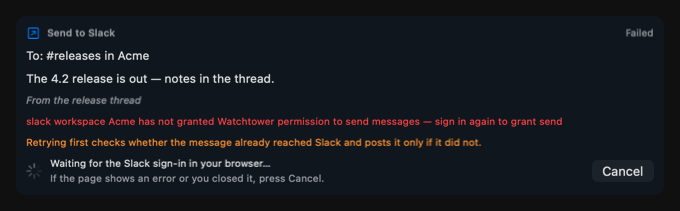
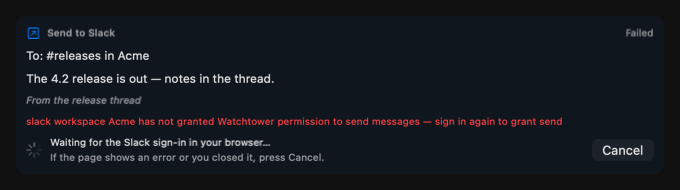
fix(desktop): T8 review follow-ups (#2132 Task 8)
- Chat card: the orange retry note hides with Retry while the card's
  sign-in waits (AgentActionCard.showsRetryNote); test extended.
- Remove/Discard red on Linear, Email and the iPhone settings rows
  (KitQuietButtonStyle(label: Tone.error) in place of a foregroundStyle
  under .kitQuiet, which rendered blue).
- Guide: a waiting row shows only Cancel; sections and cards grey out
  their other buttons.
- implemented/README: chat card, controls outside #2132 that stay
  enabled, the Confluence shot's fixture line; Slack row doc comments.

diff --git a/WatchtowerChat/Sources/ChatUI/Parts/Approval/AgentActionCard.swift b/WatchtowerChat/Sources/ChatUI/Parts/Approval/AgentActionCard.swift
@@ -129,7 +129,12 @@ public struct AgentActionCard: View {
     }
 
     /// Whether the screen's Reconnect Slack sign-in for this card's account waits in the browser: the card then shows
-    /// the waiting line and hides its decision row (Retry) until the wait ends.
+    /// the waiting line and hides its decision row (Retry) and the retry note until the wait ends.
+    /// The retry note under a failed external card; hidden with Retry while the card's sign-in waits.
+    static func showsRetryNote(_ action: ChatAgentAction, signInWaits: Bool) -> Bool {
+        action.status == "failed" && action.external && !action.isSessionApplied && !signInWaits
+    }
+
     static func signInWaits(_ action: ChatAgentAction, services: ChatApprovalServices) -> Bool {
         guard let accountID = reconnectAccount(action, services: services) else { return false }
         return reconnectWaitLine(accountID: accountID, services: services) != nil
@@ -188,6 +193,7 @@ public struct AgentActionCard: View {
         // One args decode per render for a connector card.
         let connector = ConnectorCallProposal(action: action)
         let details = services.details?(action)
+        let signInWaits = Self.signInWaits(action, services: services)
         style.approvalCard(AnyView(VStack(alignment: .leading, spacing: Spacing.regular) {
             if let contextLabel {
                 contextLine(contextLabel)
@@ -224,7 +230,7 @@ public struct AgentActionCard: View {
             // Only a FAILED row can have left a half-finished external write: Apply claims the row before it runs the
             // tool, so an `approved` one provably never reached Jira. (A Confluence edit is version-checked, so its
             // note says why a retry cannot double-write.)
-            if action.status == "failed", action.external, !action.isSessionApplied {
+            if Self.showsRetryNote(action, signInWaits: signInWaits) {
                 style.approvalRetryNote(
                     action.tool == SlackSendProposal.tool ? Self.slackRetryNote : ConfluenceEdit.retryNote(for: action)
                 )
@@ -240,7 +246,7 @@ public struct AgentActionCard: View {
             }
             // While the card's Reconnect Slack waits in the browser, its waiting line is the one action: no Retry
             // under it until the wait ends (the chat-card-waiting mockup).
-            if !Self.signInWaits(action, services: services) {
+            if !signInWaits {
                 decision(connector: connector)
             }
         }), outlined: outlined)

diff --git a/WatchtowerDesktop/Sources/Views/Settings/MobileSettingsView.swift b/WatchtowerDesktop/Sources/Views/Settings/MobileSettingsView.swift
@@ -389,8 +389,7 @@ private struct MobilePhoneRow: View {
         Chip(text: row.transportLabel, color: MobileTransportTone.color(row.transport))
         if hovered || model.pendingRemove?.id == row.id {
             Button(Copy.removeTitle) { model.requestRemove(row) }
-                .buttonStyle(.kitQuiet)
-                .foregroundStyle(Tone.error)
+                .buttonStyle(KitQuietButtonStyle(label: Tone.error))
                 .disabled(busy)
         }
     }
@@ -462,8 +461,7 @@ private struct MobileRecordingsSection: View {
                 Button(Copy.retryTitle) { Task { await model.retryRecording(recording.id) } }.buttonStyle(.kitSecondary)
             }
             Button(Copy.discardTitle) { model.requestDiscard(recording) }
-                .buttonStyle(.kitQuiet)
-                .foregroundStyle(Tone.error)
+                .buttonStyle(KitQuietButtonStyle(label: Tone.error))
         }
         .disabled(busy)
     }

diff --git a/WatchtowerDesktop/Sources/Views/Settings/SlackConnectionDetail.swift b/WatchtowerDesktop/Sources/Views/Settings/SlackConnectionDetail.swift
@@ -386,11 +386,12 @@ struct SlackConnectionDetail: View {
     }
 
     /// One workspace: its title and the §4.3 status of a company's account,
-    /// the switch, Re-login (or the status's own action), Rename, Remove.
+    /// the switch, Re-login (or the status's own action), Rename, Remove;
+    /// while its sign-in waits, Cancel in place of the row's controls.
     private func workspaceRow(_ vm: SlackAccountsViewModel, account: SlackAccount, ref: AccountRef) -> some View {
         let status = appState.companyRowStatus(ref)
-        // This row's browser sign-in waits: Cancel in place of Re-login, the
-        // waiting line under the title.
+        // This row's browser sign-in waits: Cancel in place of the row's
+        // controls, the waiting line under the title.
         let signInWait = vm.signInWait(forAccount: account.id)
         return HStack {
             VStack(alignment: .leading, spacing: Spacing.tight) {

diff --git a/WatchtowerChat/Tests/ChatUITests/AgentActionCardModelTests.swift b/WatchtowerChat/Tests/ChatUITests/AgentActionCardModelTests.swift
@@ -243,7 +243,10 @@ final class AgentActionCardModelTests: XCTestCase {
         var running: Set<Int64> = [3]
         services.reconnectSlackWaiting = { id in running.contains(id) ? AnyView(Text("waiting")) : nil }
         XCTAssertTrue(AgentActionCard.signInWaits(scope, services: services))
+        let waits = AgentActionCard.signInWaits(scope, services: services)
+        XCTAssertFalse(AgentActionCard.showsRetryNote(scope, signInWaits: waits), "the retry note goes with Retry")
         running = []
+        XCTAssertTrue(AgentActionCard.showsRetryNote(scope, signInWaits: AgentActionCard.signInWaits(scope, services: services)))
         XCTAssertFalse(AgentActionCard.signInWaits(scope, services: services), "ended: Retry again")
         running = [3]
         XCTAssertFalse(AgentActionCard.signInWaits(action(), services: services), "a card with no Slack account to reconnect")

diff --git a/WatchtowerDesktop/Sources/Views/Settings/LinearConnectionDetail.swift b/WatchtowerDesktop/Sources/Views/Settings/LinearConnectionDetail.swift
@@ -144,8 +144,7 @@ struct LinearConnectionDetail: View {
                     .disabled(vm.isBusy || reloginBlocked(account.id) != nil)
             }
             Button("Remove") { pendingRemoval = account }
-                .buttonStyle(.kitQuiet)
-                .foregroundStyle(Tone.error)
+                .buttonStyle(KitQuietButtonStyle(label: Tone.error))
                 .disabled(vm.isBusy)
         }
     }

diff --git a/WatchtowerDesktop/Sources/Views/Settings/EmailConnectionDetail.swift b/WatchtowerDesktop/Sources/Views/Settings/EmailConnectionDetail.swift
@@ -134,8 +134,7 @@ struct EmailConnectionDetail: View {
             Button("Remove") {
                 accountPendingRemoval = account
             }
-            .buttonStyle(.kitQuiet)
-            .foregroundStyle(Tone.error)
+            .buttonStyle(KitQuietButtonStyle(label: Tone.error))
         }
     }
 

diff --git a/docs/design/mockups/sign-in-cancel/implemented/README.md b/docs/design/mockups/sign-in-cancel/implemented/README.md
@@ -18,7 +18,7 @@ The Google places G1–G4 (account row, Connect Google Calendar, the Calendar ba
 
 ## What matches
 
-Every place shows the spinner, the line and the hint from `SignInWaitCopy`, and a visible **Cancel**. A waiting row's dot is grey, never red. A waiting row (Slack, Jira, Quick Connections) shows only the spinner and Cancel in its trailing slot, as the mockup does; the place's own start button (Re-login, Sign in again, Grant Confluence access, Connect, Connect the rest) is gone or disabled while the sign-in waits. **Remove** is red on the Slack, Jira, Google and Quick Connections rows, as in the mockups. The chat card shows no Retry while its sign-in waits; Retry comes back when the wait ends.
+Every place shows the spinner, the line and the hint from `SignInWaitCopy`, and a visible **Cancel**. A waiting row's dot is grey, never red. A waiting row (Slack, Jira, Quick Connections) shows only the spinner and Cancel in its trailing slot, as the mockup does; the place's own start button (Re-login, Sign in again, Grant Confluence access, Connect, Connect the rest) is gone or disabled while the sign-in waits. **Remove** is red on the Slack, Jira, Google and Quick Connections rows, as in the mockups. The chat card shows neither Retry nor the orange retry note while its sign-in waits; both come back when the wait ends.
 
 ## Differences from the mockups, and why
 
@@ -26,6 +26,9 @@ Every place shows the spinner, the line and the hint from `SignInWaitCopy`, and 
 - **Confluence puts the line first.** The waiting line sits at the top of the section, above the consent text, so it stays when a reload switches the section's content; the mockup draws it under the explanation.
 - **Own Google project and the wizard check are whole steps.** They show the step's guide and the dropped client file above the line, and **Connect** disabled; the mockups draw the line on its own.
 - **Company card** shows **Connect the rest** disabled at the trailing edge, which the mockup leaves out.
+- **Chat card** keeps the red failure line and the card's header and body above the waiting line, as the mockup's card does in outline; the mockup's short "Slack needs a new sign-in" stands in for the real failure text.
+- **Controls outside #2132 stay enabled.** During a row's wait, Slack's legacy Workspace **Reconnect Slack** and Jira's **Paste a company code** stay enabled; neither is a place this change covers.
+- **The Confluence shot's last line** ("Confluence access not granted — run: …") is the fixture runner's consent error, shown as the section's consent message.
 - **The Jira shot is cropped** to the sites and Add an account: the sections below read the live CLI, which the shots' test process does not have.
 
 Render them again with:

diff --git a/docs/guide/troubleshooting/account-needs-attention.md b/docs/guide/troubleshooting/account-needs-attention.md
@@ -38,7 +38,7 @@ After the fix, the next sync fetches the days the account missed, up to 30 days 
 
 ## A sign-in waits in the browser
 
-A row or section says **Waiting for the … sign-in in your browser…** with **Cancel**, and the connection's other buttons are greyed out. The sign-in waits for the browser page to come back to Watchtower, which never happens when the page shows an error (such as Google's "Access blocked") or you closed it.
+A row, section or card says **Waiting for the … sign-in in your browser…** with **Cancel**. A row shows only **Cancel**; a section or card greys out its other buttons. The sign-in waits for the browser page to come back to Watchtower, which never happens when the page shows an error (such as Google's "Access blocked") or you closed it.
 
 1. Press **Cancel**. The sign-in stops at once, with no error, and the row offers its own button again (**Re-login**, **Sign in again**, **Grant Confluence access**).
 2. Press that button to try again.
